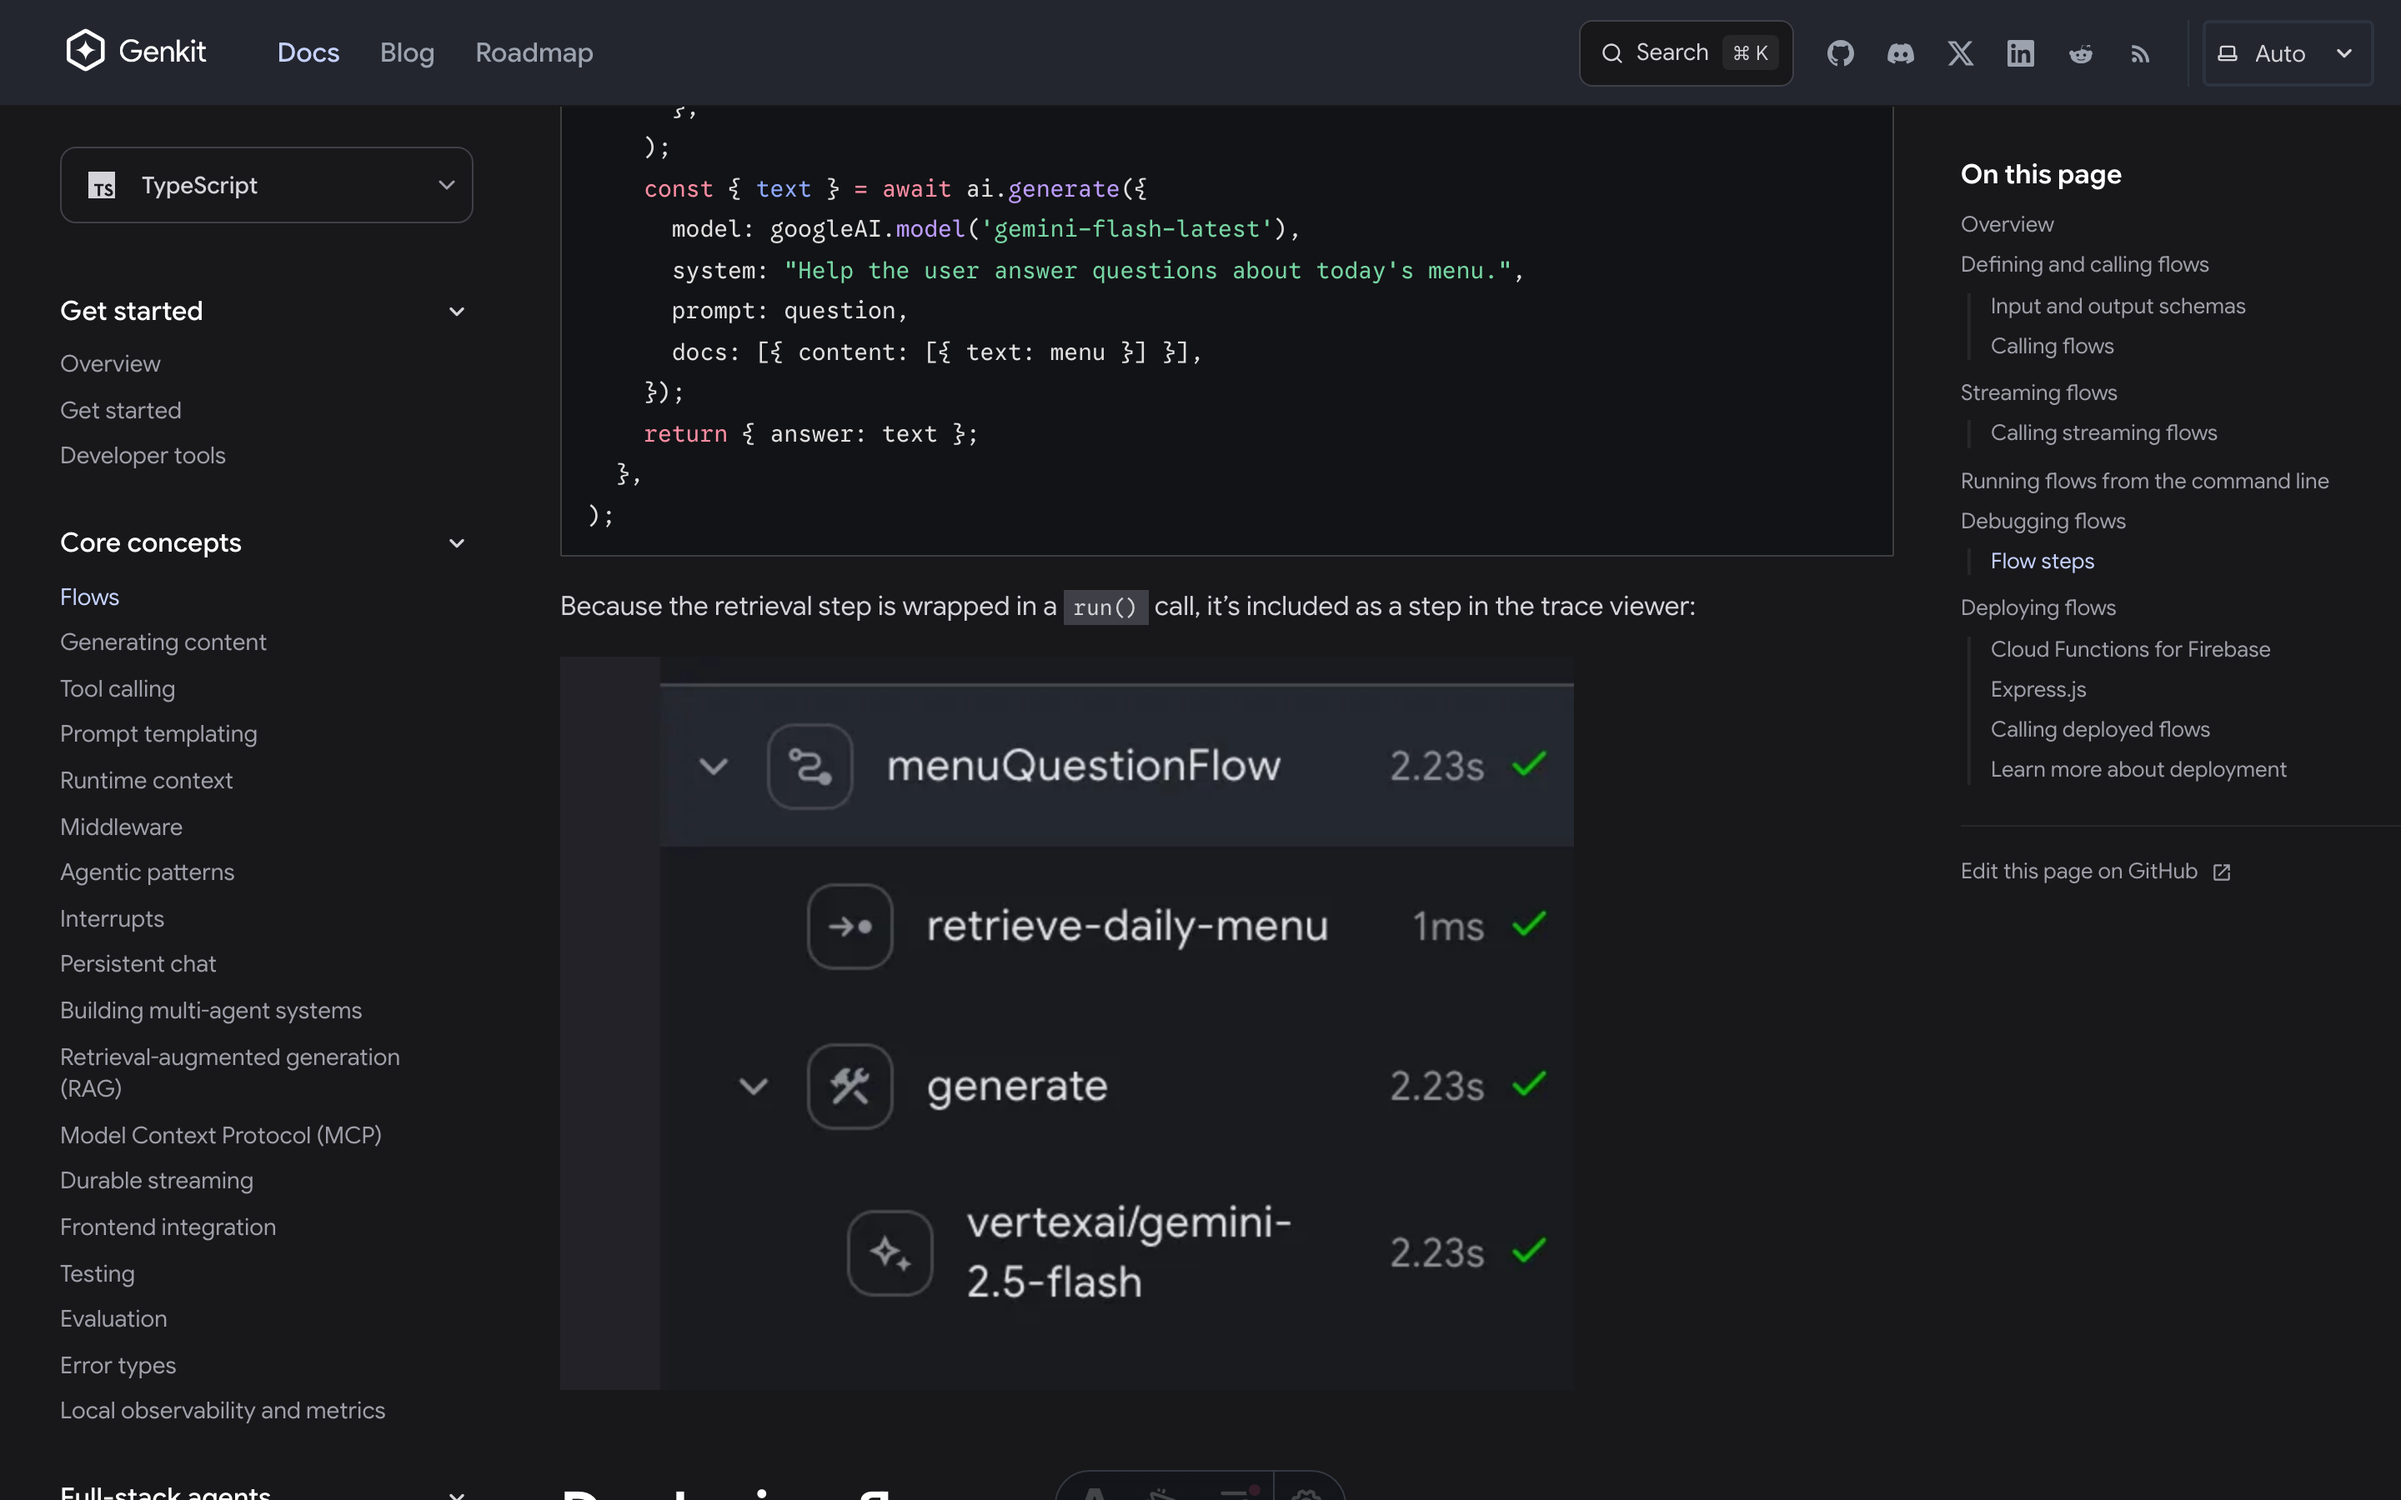
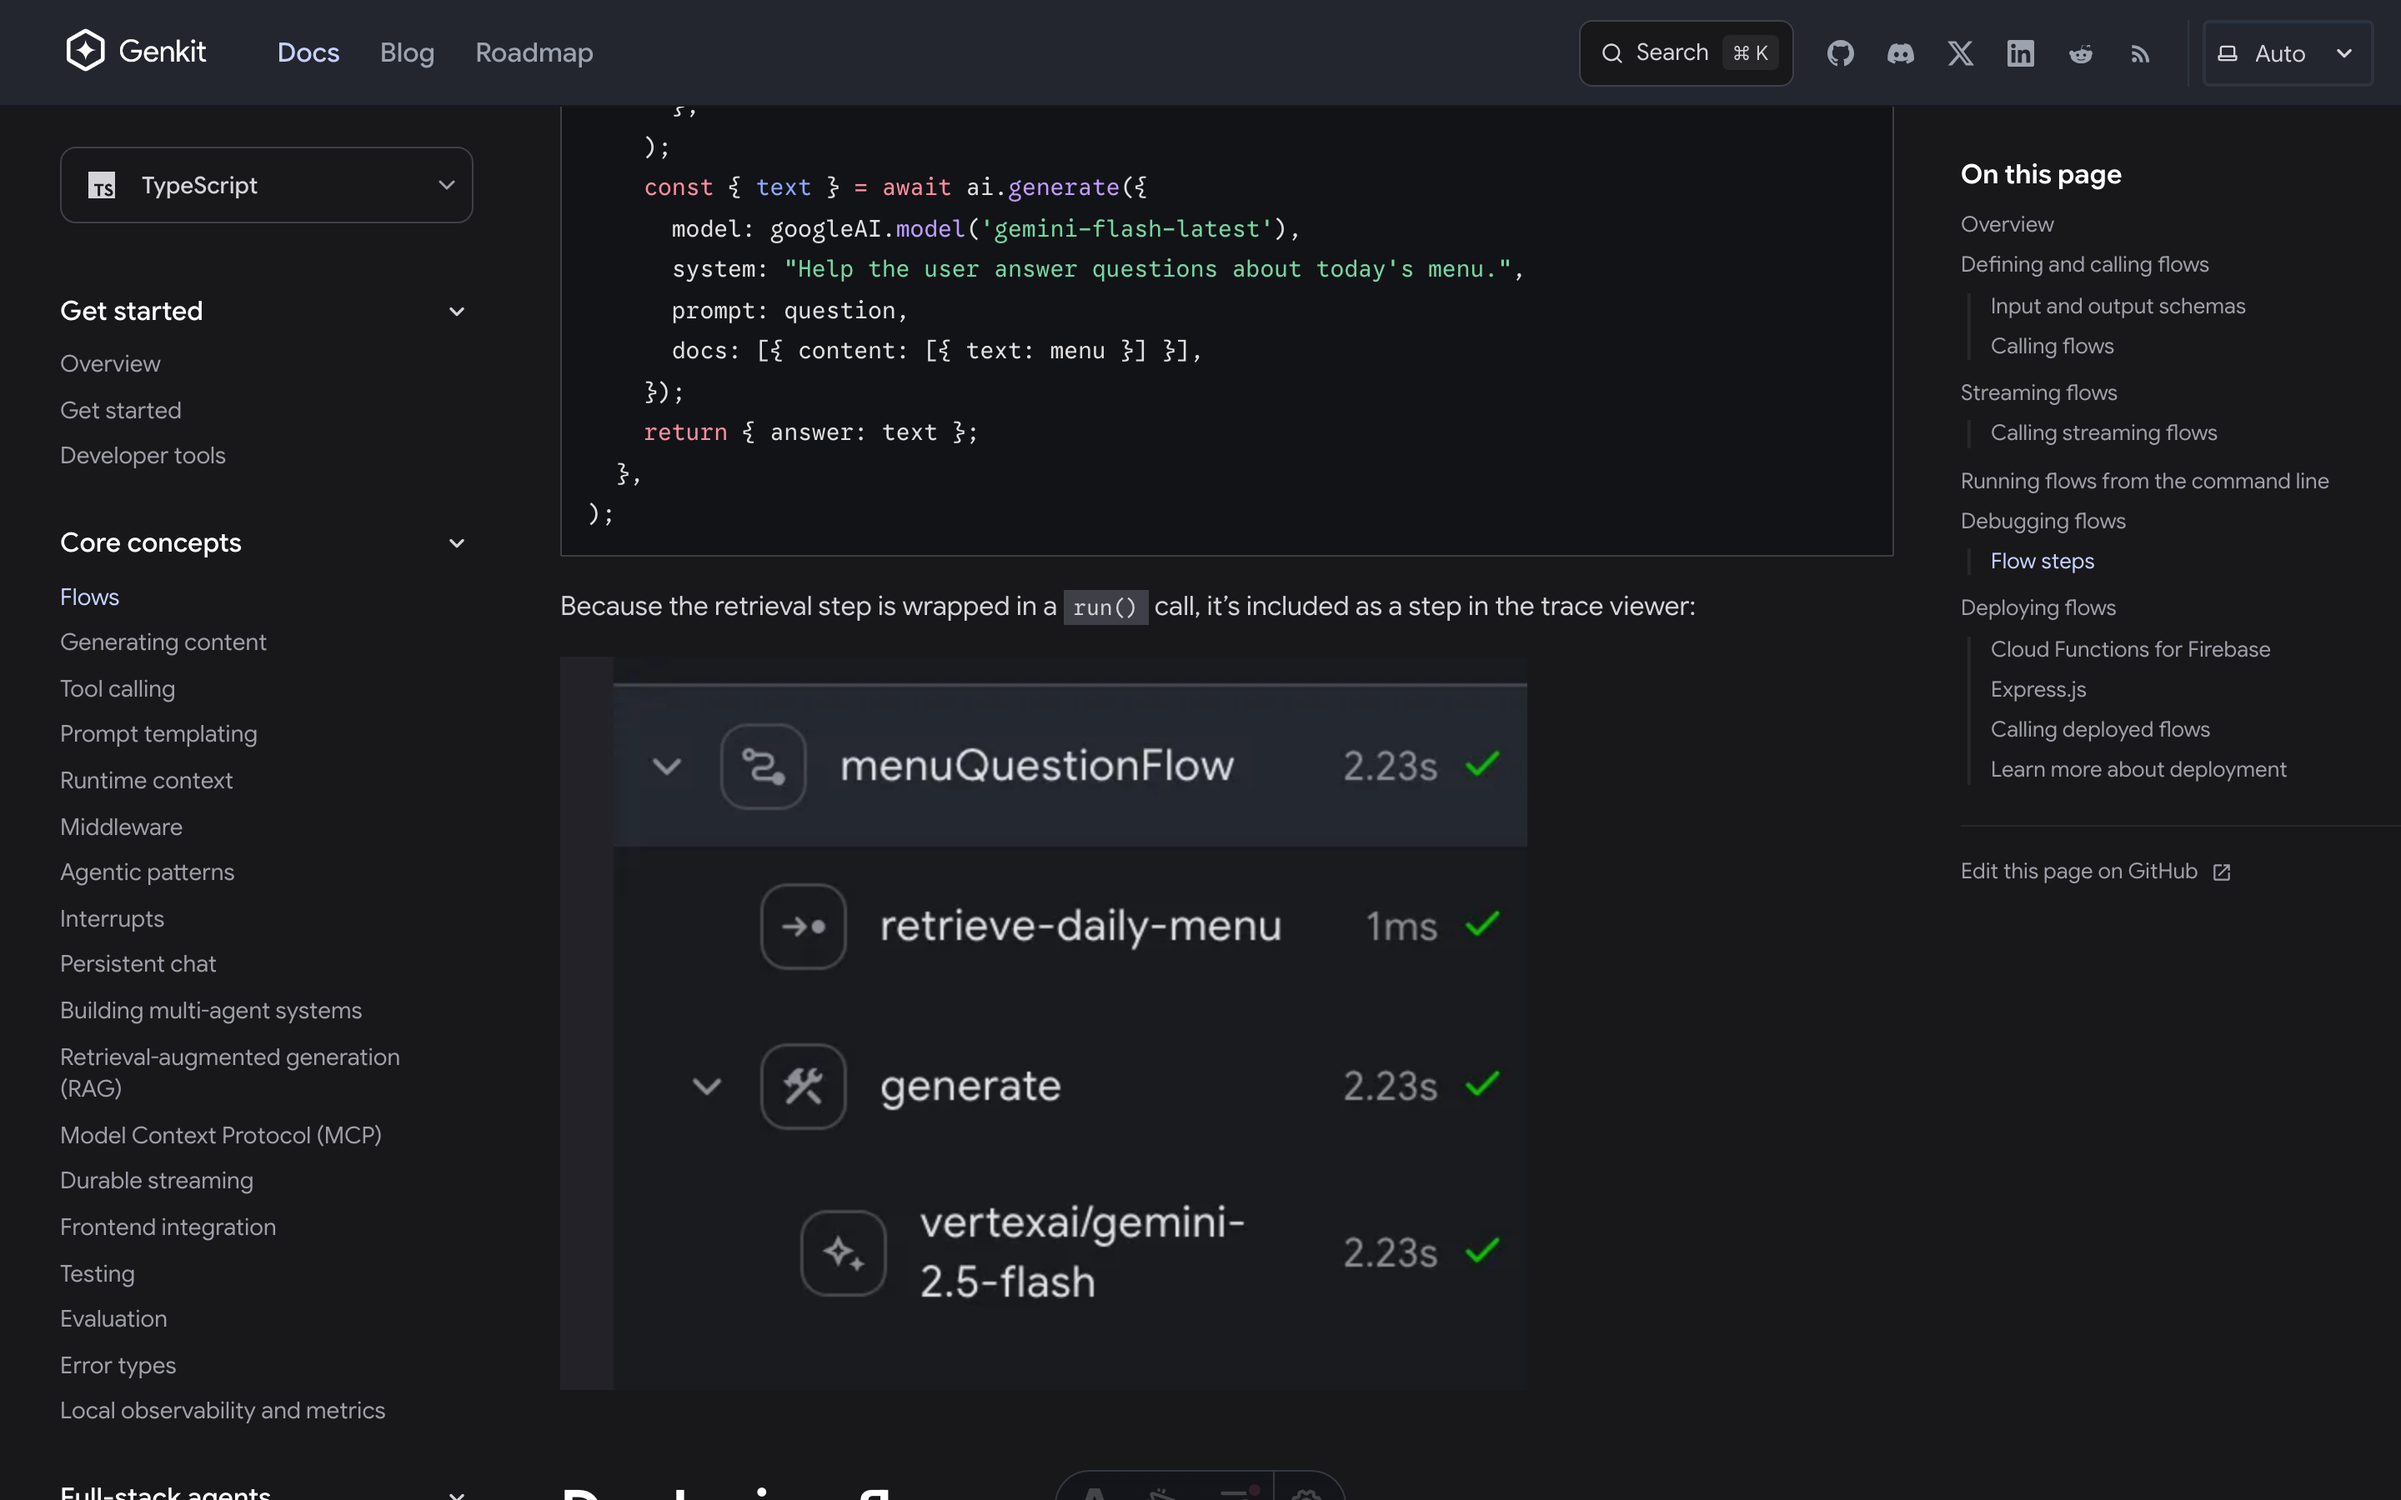
fix(assets): balance left horizontal padding for runstep crop

diff --git a/capture.py b/capture.py
@@ -162,7 +162,7 @@ def run_capture(base_url: str, docsite_url: str, out_dir: Path, python_bin: str)
             p_step.wait_for_timeout(1000)
         hide_no_app(p_step)
 
-        clip_tree = {"x": 270, "y": 47, "width": 304, "height": 220}
+        clip_tree = {"x": 284, "y": 47, "width": 290, "height": 220}
         p_step.screenshot(path=str(out_dir / "runstep.png"), clip=clip_tree)
         print("  ✓ runstep.png (anchored tree block)")
         p_step.close()
